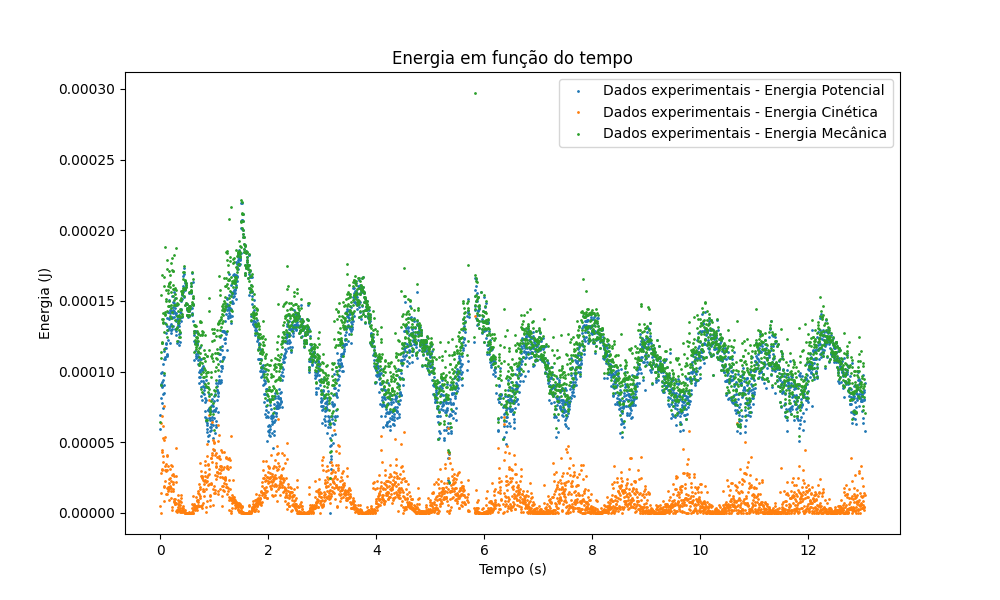
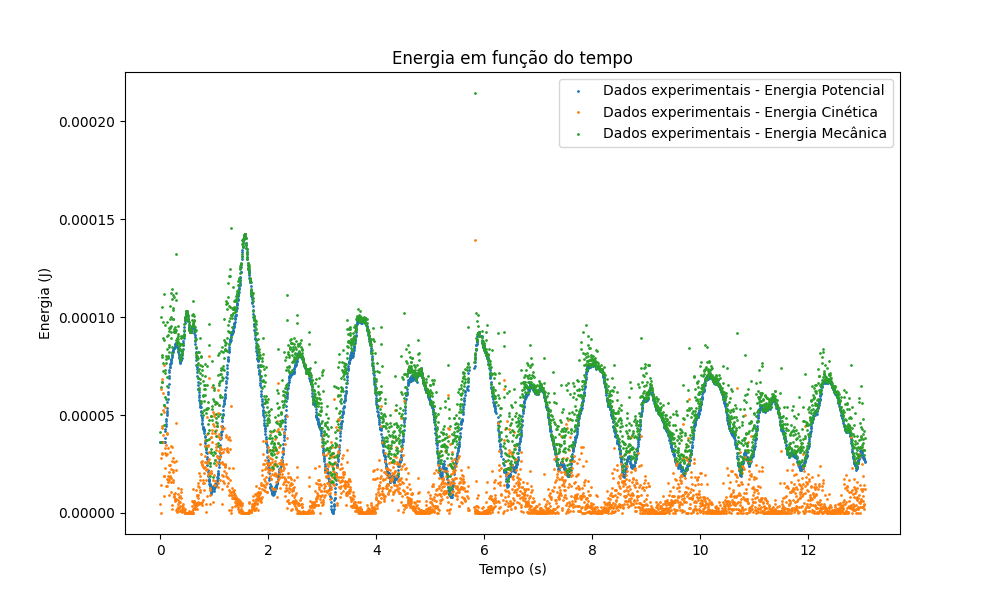
tentativa de fazer ajuste no y com dissipação no tracker

diff --git a/Tarefa2/codigo/plotagemDissipacao.py b/Tarefa2/codigo/plotagemDissipacao.py
@@ -4,6 +4,7 @@ import scipy.optimize as opt
 from func_seno_amortecido import func_seno_amortecido
 from func_seno import func_seno
 import csv
+import pandas as pd
 
 diretorioImgs = "Tarefa2/imgs/comDissipacao"
 diretorioData = "Tarefa2/data/comDissipacao"
@@ -20,10 +21,12 @@ data = np.array(data[1:], dtype=float)
 tempo = data[:,0]
 posx = data[:,1]
 posy = data[:,2]
-energiaK = data[:,3] * 0.0518
+posy = pd.DataFrame(posy).rolling(window=21).mean()
+posy = posy.bfill().to_numpy().flatten()
 y0 = np.min(posy)
 posy = posy - y0
-ang = -np.arctan2(posx, 1.107 - (posy - y0))
+energiaK = data[:,3] * 0.0518
+ang = -np.arctan2(posx, 1.107 - (posy))
 ang0 = ang[0]
 
 def plotagemAng():
@@ -64,10 +67,17 @@ def plotagemPosx():
     plt.close()
 
 def plotagemPosy():
+    popt, pcov = opt.curve_fit(func_seno_amortecido, tempo, posy, p0=[0.11847116,5.6,0.0004,-1.48361739,0.0001])
+    posyAjustada = func_seno_amortecido(tempo, *popt)
+    erro = np.diag(pcov)**0.5
+    with open(diretorioData + "/ajustePosy.txt", 'w') as f:
+        f.write(f"Parâmetros do ajuste: {popt}\n")
+        f.write(f"Erro dos parâmetros: {erro}\n")
     plt.title("Posição em Y em função do tempo")
     plt.xlabel("Tempo (s)")
     plt.ylabel("Posição em Y (m)")
     plt.plot(tempo, posy, 'o', label='Dados experimentais', markersize=1)
+    plt.plot(tempo, posyAjustada, '--', color='red', label=f'Ajuste de curvas')
     plt.legend(loc='upper right')
     plt.savefig(diretorioImgs + "/posy.png")
     plt.close()